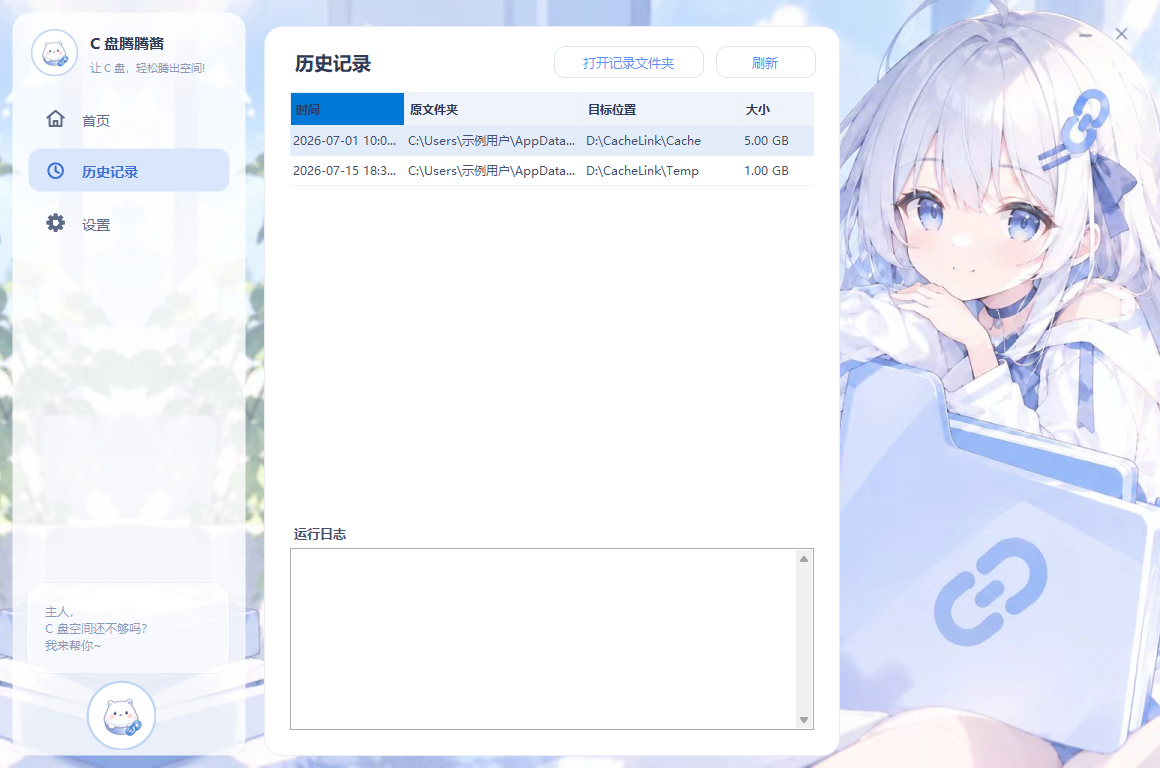
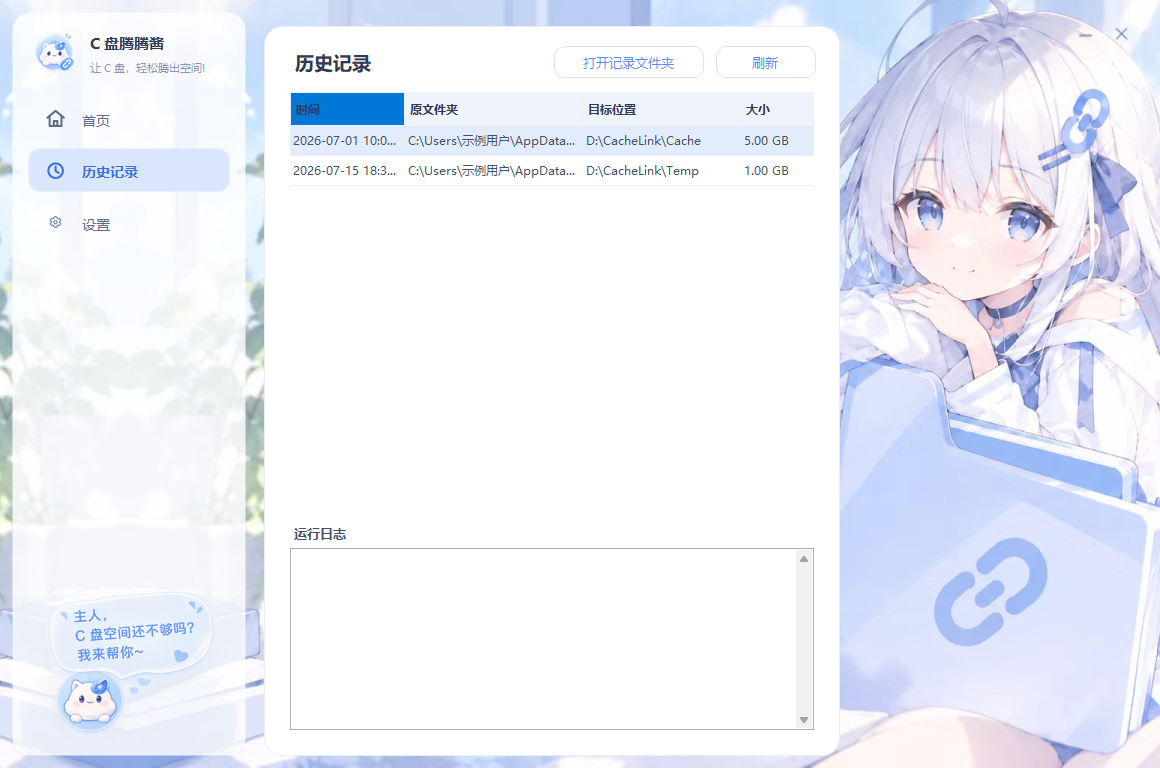
侧边栏气泡+小猫换云朵贴纸，两处头像换玻璃蓝圆小猫，设置导航换蓝灰齿轮，输入框浏览按钮放大

Changed region(s): [[0.031, 0.7812, 0.1862, 0.9688], [0.031, 0.0312, 0.0621, 0.0938], [0.031, 0.2812, 0.0621, 0.3125]]

diff --git a/CuteUI.cs b/CuteUI.cs
@@ -133,7 +133,11 @@ public class NavButton : TranslucentControl
         }
         var color = Selected ? Color.FromArgb(0x3D, 0x6F, 0xD4) : Color.FromArgb(0x5E, 0x6B, 0x87);
         var icon = Selected ? IconActive : Icon;
-        if (icon != null) g.DrawImage(icon, 16, (Height - 22) / 2, 22, 22);
+        if (icon != null)
+        {
+            g.InterpolationMode = InterpolationMode.HighQualityBicubic;
+            g.DrawImage(icon, 16, (Height - 22) / 2, 22, 22);
+        }
         TextRenderer.DrawText(g, Text, Selected ? FontSelected : FontNormal,
             new Point(50, (Height - Font.Height) / 2), color);
     }
@@ -246,7 +250,7 @@ public class InputField : Panel
 
         BrowseButton = new IconButton
         {
-            Size = new Size(32, 32),
+            Size = new Size(36, 36),
             IconImage = (Image?)IconAssets.FolderMini
                         ?? DrawIcons.Make("folder", Color.FromArgb(0x8A, 0x97, 0xB5), 18)
         };
@@ -306,9 +310,9 @@ public class InputField : Panel
     private void Relayout()
     {
         int boxTop = (Height - Box.Height) / 2;
-        Box.SetBounds(16, boxTop, Width - 16 - 44, Box.Height);
-        BrowseButton.SetBounds(Width - 40, (Height - 32) / 2, 32, 32);
-        _placeholder.SetBounds(17, (Height - _placeholder.Height) / 2, Width - 60, _placeholder.Height);
+        Box.SetBounds(16, boxTop, Width - 16 - 52, Box.Height);
+        BrowseButton.SetBounds(Width - 44, (Height - 36) / 2, 36, 36);
+        _placeholder.SetBounds(17, (Height - _placeholder.Height) / 2, Width - 68, _placeholder.Height);
     }
 
     private void UpdatePlaceholder() => _placeholder.Visible = Box.Text.Length == 0 && !_focus;
@@ -412,12 +416,23 @@ public class MascotAvatar : TranslucentControl
     /// <summary>是否在右下角画链接小徽章（标题区头像用）。</summary>
     public bool ShowLinkBadge { get; set; }
 
+    /// <summary>自定义头像图（优先于内嵌吉祥物；图内自带元素时徽章不再叠加）。</summary>
+    public Image? CustomImage { get; set; }
+
     protected override void OnPaint(PaintEventArgs e)
     {
         var g = e.Graphics;
         g.SmoothingMode = SmoothingMode.AntiAlias;
         g.InterpolationMode = InterpolationMode.HighQualityBicubic;
         int size = Math.Min(Width, Height);
+        var rect = new Rectangle((Width - size) / 2, (Height - size) / 2, size, size);
+
+        if (CustomImage != null)
+        {
+            g.DrawImage(CustomImage, rect);
+            return;
+        }
+
         var img = MascotImage;
         if (img == null)
         {
@@ -425,7 +440,6 @@ public class MascotAvatar : TranslucentControl
             return;
         }
 
-        var rect = new Rectangle((Width - size) / 2, (Height - size) / 2, size, size);
         using (var b = new SolidBrush(Color.White)) g.FillEllipse(b, rect);
         using (var path = new GraphicsPath())
         {
@@ -521,7 +535,7 @@ public static class CatRenderer
 /// <summary>玻璃质感文件夹图标（本地素材，缺失时界面回退到手绘版）。</summary>
 public static class IconAssets
 {
-    private static Image? _src, _dst, _mini;
+    private static Image? _src, _dst, _mini, _sticker, _cat, _gear;
 
     /// <summary>加载内嵌素材并等比缩放到 target 见方（透明留白补齐），失败返回 null。</summary>
     private static Image? Load(string resource, int target)
@@ -558,6 +572,15 @@ public static class IconAssets
 
     /// <summary>输入框浏览按钮的蓝灰文件夹图标。</summary>
     public static Image? FolderMini => _mini ??= Load("CacheMover.assets.folder-mini.png", 48);
+
+    /// <summary>侧边栏底部的云朵气泡+小猫贴纸。</summary>
+    public static Image? CloudSticker => _sticker ??= Load("CacheMover.assets.cloud-sticker.png", 300);
+
+    /// <summary>玻璃蓝圆里的萌系小猫头像（自带链接徽章）。</summary>
+    public static Image? CatAvatar => _cat ??= Load("CacheMover.assets.cat-avatar.png", 160);
+
+    /// <summary>设置导航的蓝灰齿轮图标。</summary>
+    public static Image? Gear => _gear ??= Load("CacheMover.assets.gear.png", 44);
 }
 
 /// <summary>运行时绘制的扁平图标。</summary>

diff --git a/MainForm.cs b/MainForm.cs
@@ -290,7 +290,7 @@ public class MainForm : Form
             ShowBorder = false
         };
 
-        var avatar = new MascotAvatar { Left = 18, Top = 16, Width = 48, Height = 48 };
+        var avatar = new MascotAvatar { Left = 18, Top = 16, Width = 48, Height = 48, CustomImage = IconAssets.CatAvatar };
         var name = new Label
         {
             Text = "C 盘腾腾酱",
@@ -308,38 +308,48 @@ public class MainForm : Form
 
         _navHome = MakeNav("首页", "home", 0);
         _navHistory = MakeNav("历史记录", "clock", 1);
-        _navSettings = MakeNav("设置", "gear", 2);
+        _navSettings = MakeNav("设置", "gear", 2, IconAssets.Gear);
         _navHome.Click += (_, _) => ShowPage(0);
         _navHistory.Click += (_, _) => ShowPage(1);
         _navSettings.Click += (_, _) => ShowPage(2);
 
-        _bubble = new SpeechBubble
+        if (IconAssets.CloudSticker != null)
         {
-            Left = 14, Top = 570, Width = 204, Height = 92,
-            Message = "主人，\r\nC 盘空间还不够吗？\r\n我来帮你~"
-        };
-        var cat = new MascotAvatar { Left = 74, Top = 668, Width = 70, Height = 70 };
-
-        _sidebar.Controls.AddRange(new Control[]
+            // 云朵气泡+小猫贴纸（素材图自带文案）
+            var sticker = new PictureBox
+            {
+                Left = 12, Top = 560, Width = 210, Height = 182,
+                Image = IconAssets.CloudSticker,
+                SizeMode = PictureBoxSizeMode.Zoom
+            };
+            _sidebar.Controls.AddRange(new Control[] { avatar, name, sub, _navHome, _navHistory, _navSettings, sticker });
+        }
+        else
         {
-            avatar, name, sub, _navHome, _navHistory, _navSettings, _bubble, cat
-        });
+            _bubble = new SpeechBubble
+            {
+                Left = 14, Top = 570, Width = 204, Height = 92,
+                Message = "主人，\r\nC 盘空间还不够吗？\r\n我来帮你~"
+            };
+            var cat = new MascotAvatar { Left = 74, Top = 668, Width = 70, Height = 70, CustomImage = IconAssets.CatAvatar };
+            _sidebar.Controls.AddRange(new Control[] { avatar, name, sub, _navHome, _navHistory, _navSettings, _bubble, cat });
+        }
     }
 
-    private NavButton MakeNav(string text, string icon, int index)
+    private NavButton MakeNav(string text, string icon, int index, Image? customIcon = null)
     {
         return new NavButton
         {
             Text = text,
             Left = 16, Top = 84 + index * 52, Width = 202, Height = 44,
-            Icon = DrawIcons.Make(icon, Color.FromArgb(0x5E, 0x6B, 0x87), 22),
-            IconActive = DrawIcons.Make(icon, Color.FromArgb(0x3D, 0x6F, 0xD4), 22)
+            Icon = customIcon ?? DrawIcons.Make(icon, Color.FromArgb(0x5E, 0x6B, 0x87), 22),
+            IconActive = customIcon ?? DrawIcons.Make(icon, Color.FromArgb(0x3D, 0x6F, 0xD4), 22)
         };
     }
 
     private void BuildHeader()
     {
-        _avatarHeader = new MascotAvatar { Left = 270, Top = 24, Width = 80, Height = 80, ShowLinkBadge = true };
+        _avatarHeader = new MascotAvatar { Left = 270, Top = 24, Width = 80, Height = 80, ShowLinkBadge = true, CustomImage = IconAssets.CatAvatar };
         _lblAppTitle = new Label
         {
             Text = "C 盘腾腾酱",
